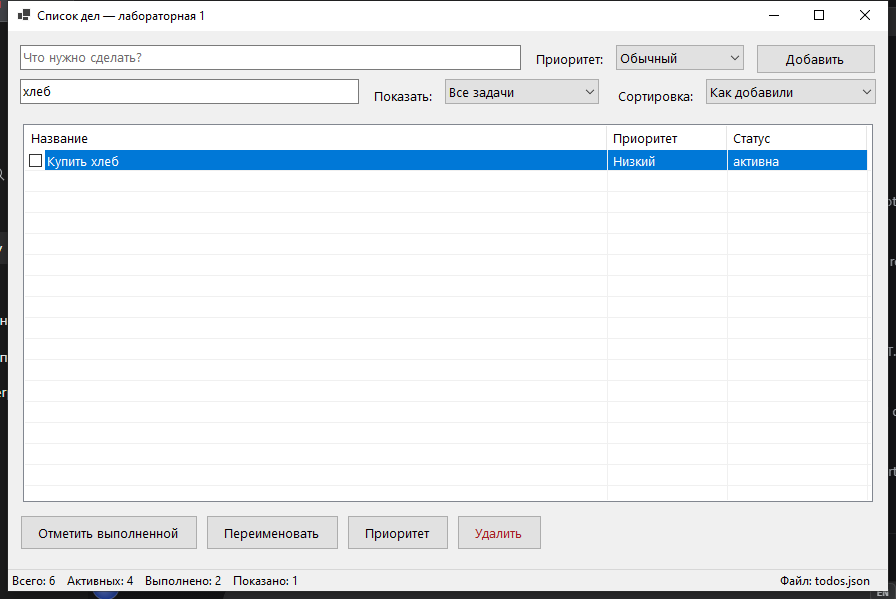
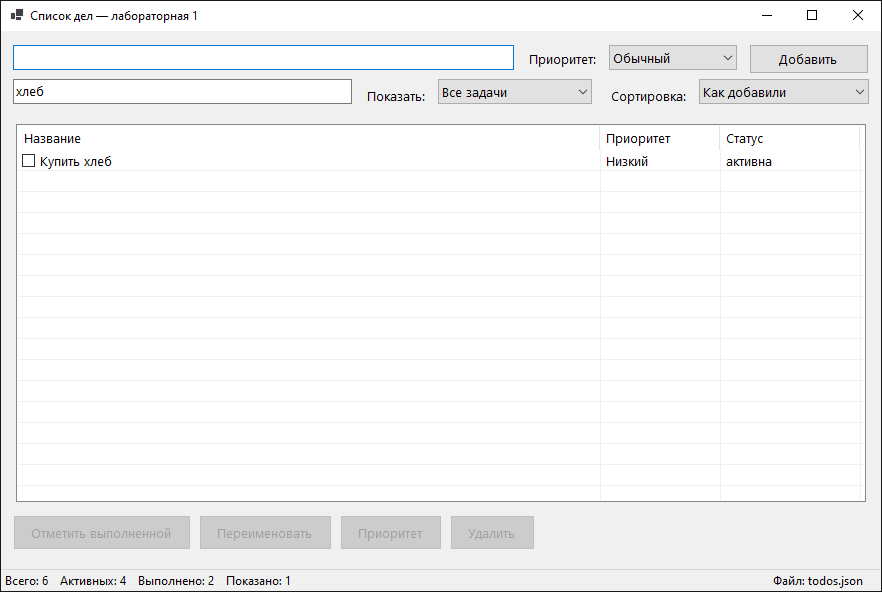
Лаба 1: понятный текст ошибки вместо технических подробностей
Пустое название теперь сообщает «Название задачи не может быть пустым.» без имени параметра, скриншоты пересняты с финальной сборки.

Changed region(s): [[0.0, 0.0, 1.0, 1.0]]

diff --git a/lab1-todo/src/TodoApp.Core/TodoItem.cs b/lab1-todo/src/TodoApp.Core/TodoItem.cs
@@ -28,7 +28,7 @@ public sealed class TodoItem
     {
         if (string.IsNullOrWhiteSpace(title))
         {
-            throw new ArgumentException("Название задачи не может быть пустым.", nameof(title));
+            throw new ArgumentException("Название задачи не может быть пустым.");
         }
 
         _title = title.Trim();
@@ -39,7 +39,7 @@ public sealed class TodoItem
     {
         if (!Enum.IsDefined(priority))
         {
-            throw new ArgumentOutOfRangeException(nameof(priority), priority, "Неизвестный приоритет.");
+            throw new ArgumentOutOfRangeException(nameof(priority), "Неизвестный приоритет.");
         }
 
         _priority = priority;
